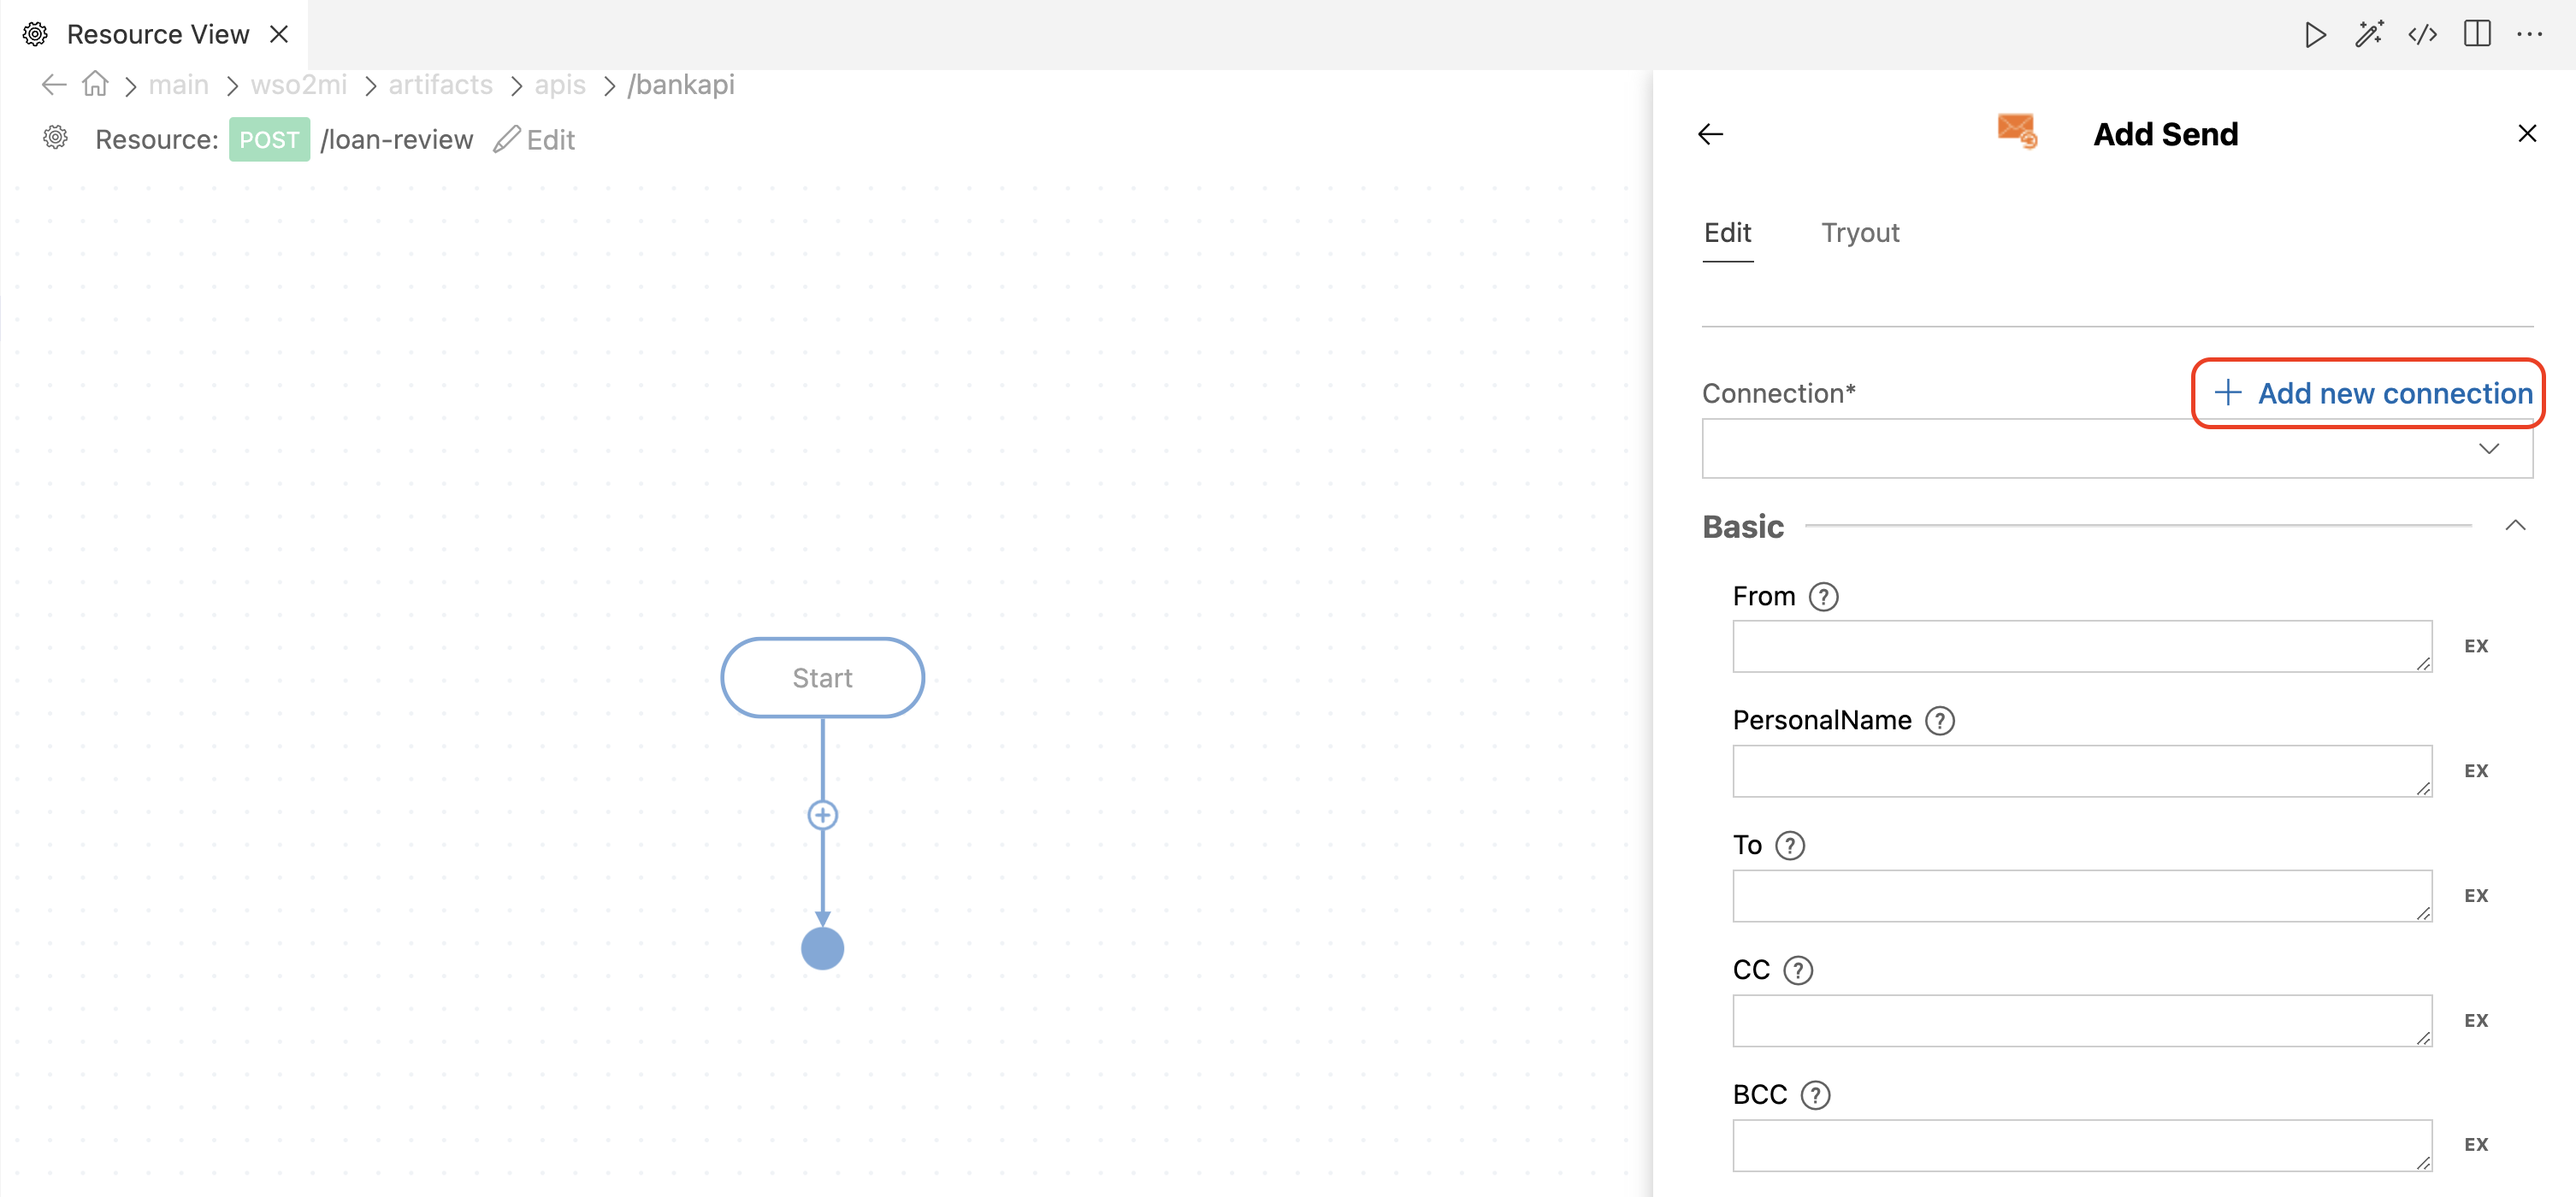
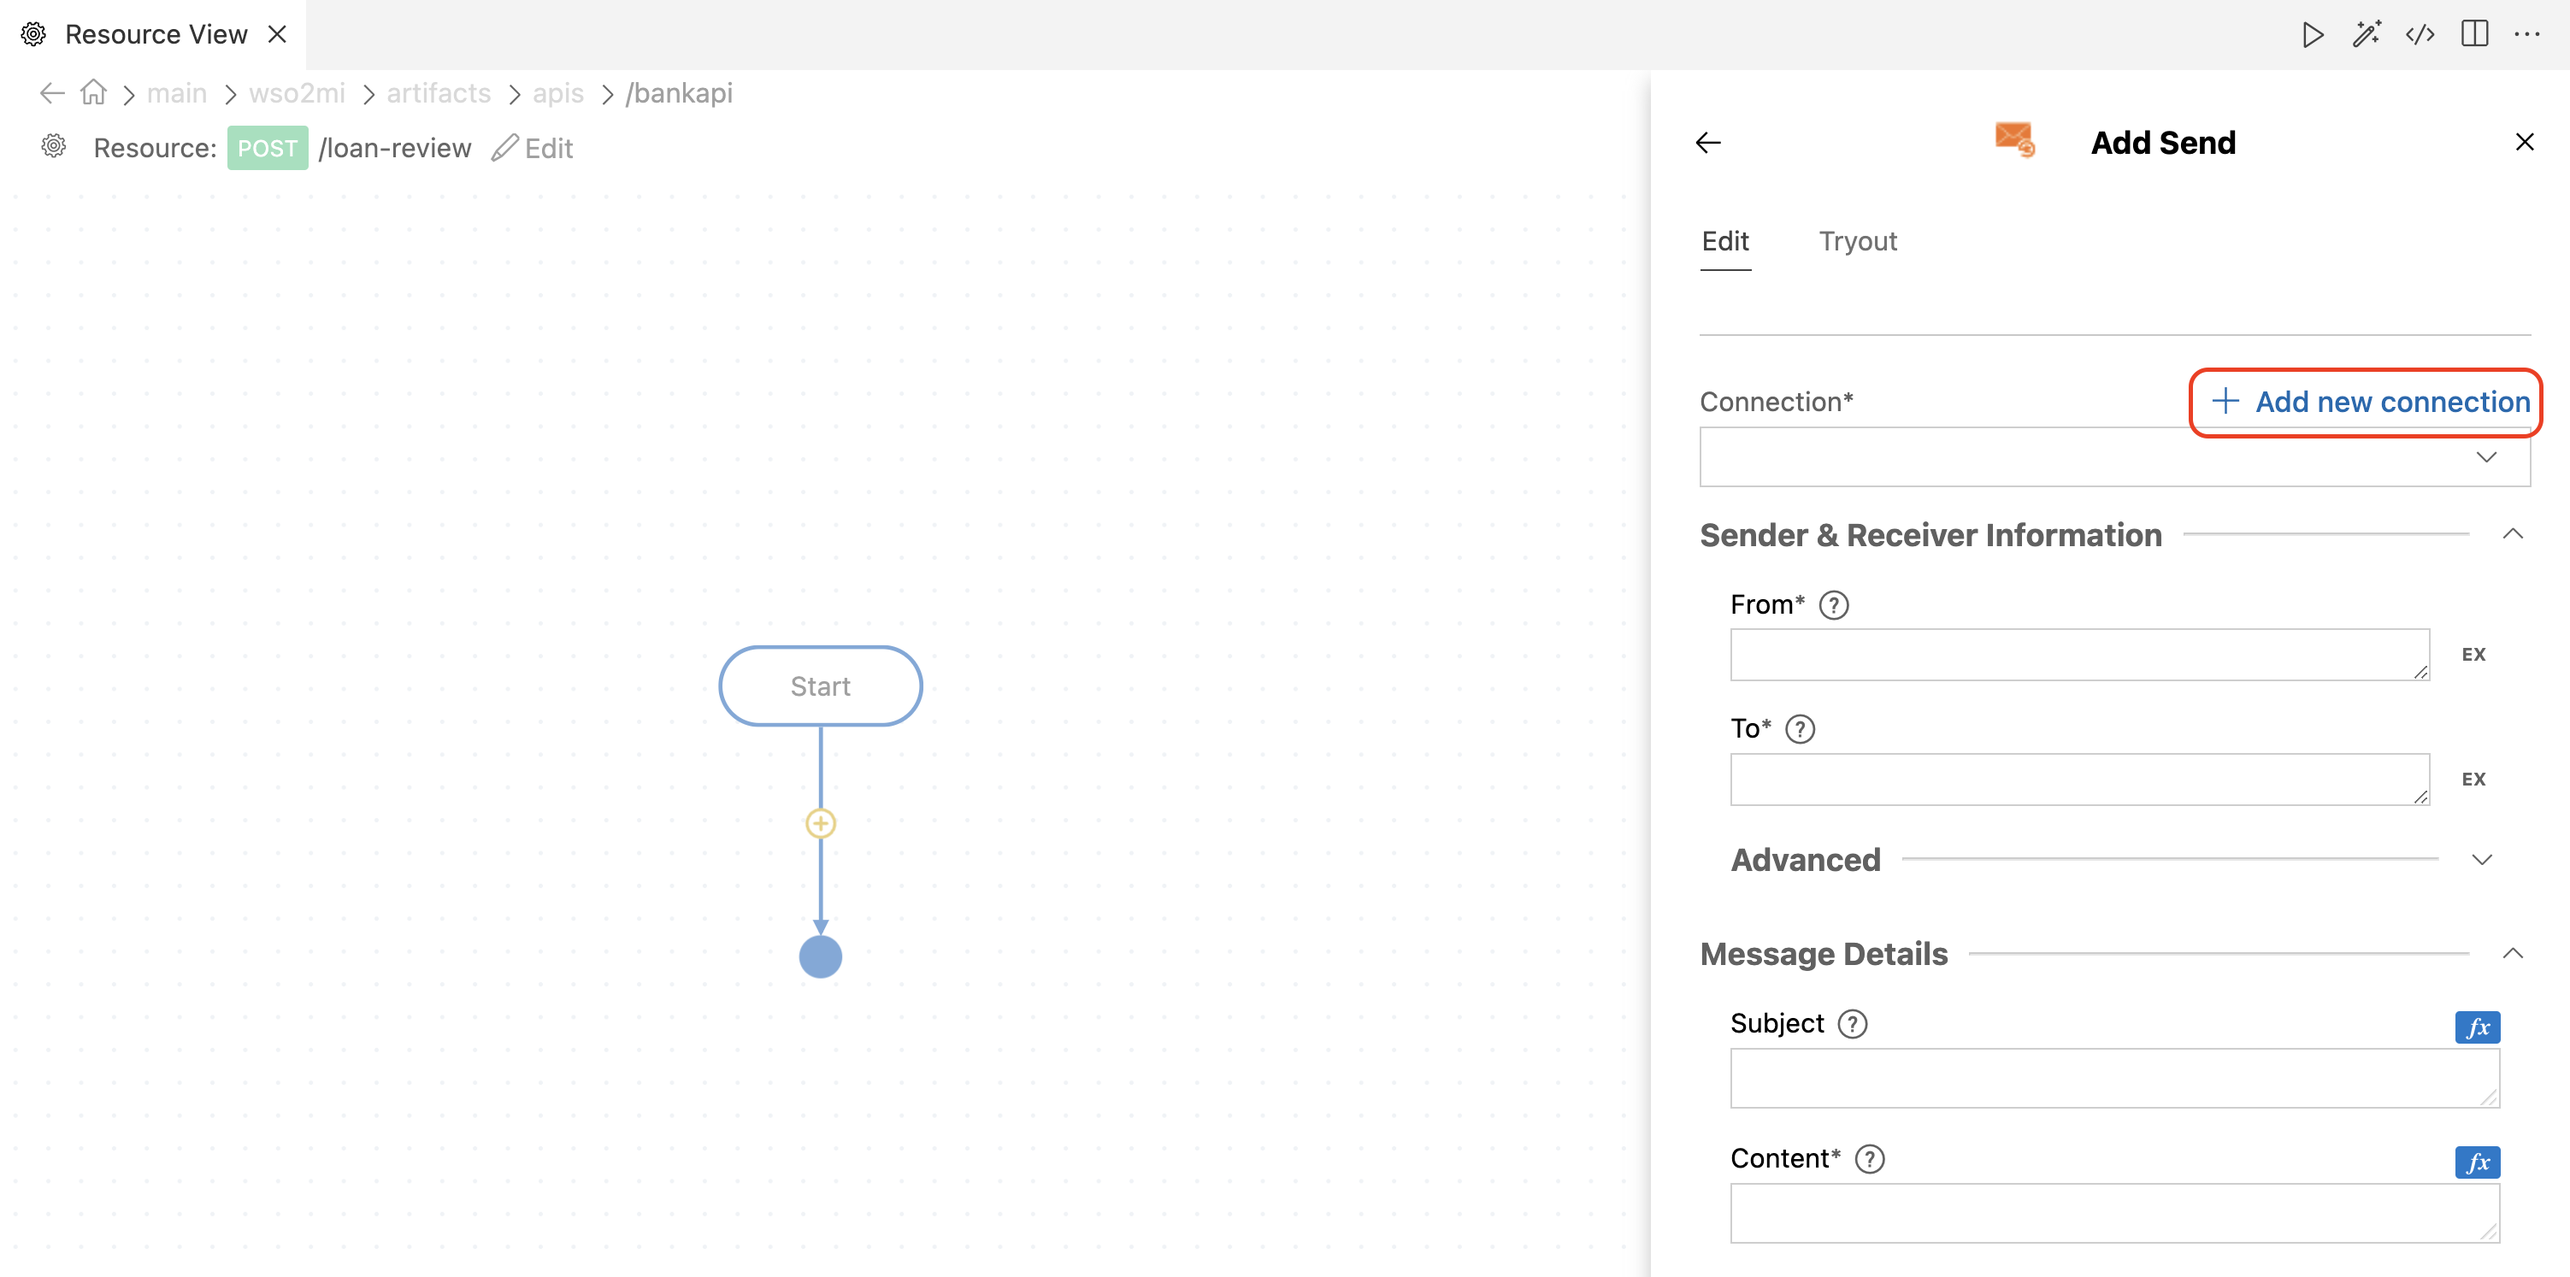
Update screenshots and GIFs

diff --git a/en/docs/get-started/build-first-integration/first-integration-connect-saas.md b/en/docs/get-started/build-first-integration/first-integration-connect-saas.md
@@ -105,7 +105,10 @@ To develop the above scenario, let's get started with creating a new API resourc
 
     <a href="{{base_path}}/assets/img/get-started/build-first-integration/email_create_connection.png"><img src="{{base_path}}/assets/img/get-started/build-first-integration/email_create_connection.png" alt="Create New Project" width="80%"></a>
 
-9. After creating the connection, set `Loan Application Received` as the **Subject** in the **Add Send** form.
+
+9. After creating the connection, enter your email address in the **From** field and set `Loan Application Received` as the **Subject** in the **Add Send** form.
+
+    <a href="{{base_path}}/assets/img/get-started/build-first-integration/email_set_subject.png"><img src="{{base_path}}/assets/img/get-started/build-first-integration/email_set_subject.png" alt="Create New Project" width="30%"></a>
 
     In the next step, we will extract the recipient's email address from the incoming payload and assign it to the **To** field using an expression.
 
@@ -117,10 +120,14 @@ To develop the above scenario, let's get started with creating a new API resourc
 
 12. Select **Payload** → **email** to extract the recipient's email address from the payload.
 
+    <a href="{{base_path}}/assets/img/get-started/build-first-integration/email_set_to.gif">
+        <img src="{{base_path}}/assets/img/get-started/build-first-integration/email_set_to.gif" width="50%" alt="Add inline expression">
+    </a>
+
     In the next step, we use a template with inline expressions to extract data from the incoming payload and construct the email body.
 
     !!! Tip
-        You can use the following pre-filled template in the **Body** field to skip the inline expression insertion steps and continue from **Step 16**.
+        You can use the following pre-filled template in the **Content** field to skip the inline expression insertion steps and continue from **Step 16**.
 
         ```text
         Dear ${payload.name},
@@ -131,7 +138,7 @@ To develop the above scenario, let's get started with creating a new API resourc
         O2 Bank
         ```
 
-13. In the **Body** field, enter the following template.
+13. In the **Content** field, enter the following template.
 
     ```text
     Dear ,
@@ -144,17 +151,15 @@ To develop the above scenario, let's get started with creating a new API resourc
 
 14. In the template, place your cursor in the appropriate location (next to `Dear `), click on the inline expression editor (<img src="{{base_path}}/assets/img/get-started/build-first-integration/inline_expression_icon.png" alt="inline expression editor" class="inline-icon">) icon, then select **Payload** → **name**, and click **Add** to insert the inline expression into the template.
 
-    <a href="{{base_path}}/assets/img/get-started/build-first-integration/add_inline_expression.gif">
-        <img src="{{base_path}}/assets/img/get-started/build-first-integration/add_inline_expression.gif" width="50%" alt="Add inline expression">
-    </a>
-
 15. Repeat the same steps to insert the loan **amount** after the `$` symbol in the template.
 
-    <a href="{{base_path}}/assets/img/get-started/build-first-integration/add_inline_expression.gif">
-        <img src="{{base_path}}/assets/img/get-started/build-first-integration/add_inline_expression.gif" width="50%" alt="Add inline expression">
+    <a href="{{base_path}}/assets/img/get-started/build-first-integration/add_inline_expressions_email_body.gif">
+        <img src="{{base_path}}/assets/img/get-started/build-first-integration/add_inline_expressions_email_body.gif" width="50%" alt="Add inline expression">
     </a>
 
-16. Finally, click **Submit** to add the email operation to the integration flow.
+16. Ensure that **Overwrite Message Body** is checked, then click **Submit** to add the email operation to the integration flow.
+
+    <a href="{{base_path}}/assets/img/get-started/build-first-integration/email_send_configs.png"><img src="{{base_path}}/assets/img/get-started/build-first-integration/email_send_configs.png" alt="Create New Project" width="30%"></a>
 
 17. Click on the **+** icon located just after the **Send** operation to open the **Mediator Palette** to add a [Respond Mediator]({{base_path}}/reference/mediators/respond-mediator) to respond to the client request.
 
@@ -232,7 +237,7 @@ You have successfully updated the integration flow to send an email with the loa
             <resource methods="POST" uri-template="/loan-review">
                 <inSequence>
                     <email.send configKey="GmailConnection">
-                        <from>REPLACE</from>
+                        <from>ENTER_YOUR_EMAIL_HERE</from>
                         <personalName></personalName>
                         <to>{${payload.email}}</to>
                         <cc></cc>
@@ -248,6 +253,8 @@ You have successfully updated the integration flow to send an email with the loa
                         <attachments></attachments>
                         <inlineImages>[]</inlineImages>
                         <contentTransferEncoding>Base64</contentTransferEncoding>
+                        <responseVariable>email_send_1</responseVariable>
+                        <overwriteBody>true</overwriteBody>
                     </email.send>
                     <respond />
                 </inSequence>

diff --git a/en/docs/get-started/build-first-integration/first-integration-monitor-icp.md b/en/docs/get-started/build-first-integration/first-integration-monitor-icp.md
@@ -136,7 +136,7 @@ Now that the Integration Control Plane (ICP) is running, log in to the web porta
 
     You may explore the other artifacts on your own for reference.
 
-Congratulations! You have now learned how to monitor and manage integrations using the Integration Control Plane (ICP). You explored how to check the status of deployed MI nodes and view integration artifact details, including their source code.
+Congratulations! You have now learned how to monitor and manage integrations using the Integration Control Plane (ICP). You explored how to check the status of deployed MI nodes and view detailed information about integration artifacts, including their source code.
 
 ## What's Next?  
 

diff --git a/en/docs/get-started/build-first-integration/index.md b/en/docs/get-started/build-first-integration/index.md
@@ -12,7 +12,7 @@ By following this series, you will gain hands-on experience in:
 
 - Developing an Integration API – Expose an Integration API and handle requests.
 - Routing and Transforming Messages – Process and modify data dynamically.
-- Connecting to SaaS or B2B Systems – Integrate with external platforms like Gmail, Salesforce, or AWS.
+- Connecting to SaaS or B2B Systems – Integrate with external platforms like Gmail.
 - Monitoring and Managing Integrations – Use the Integration Control Plane (ICP) to monitor and manage deployed artifacts.
 
 ## Get Started
